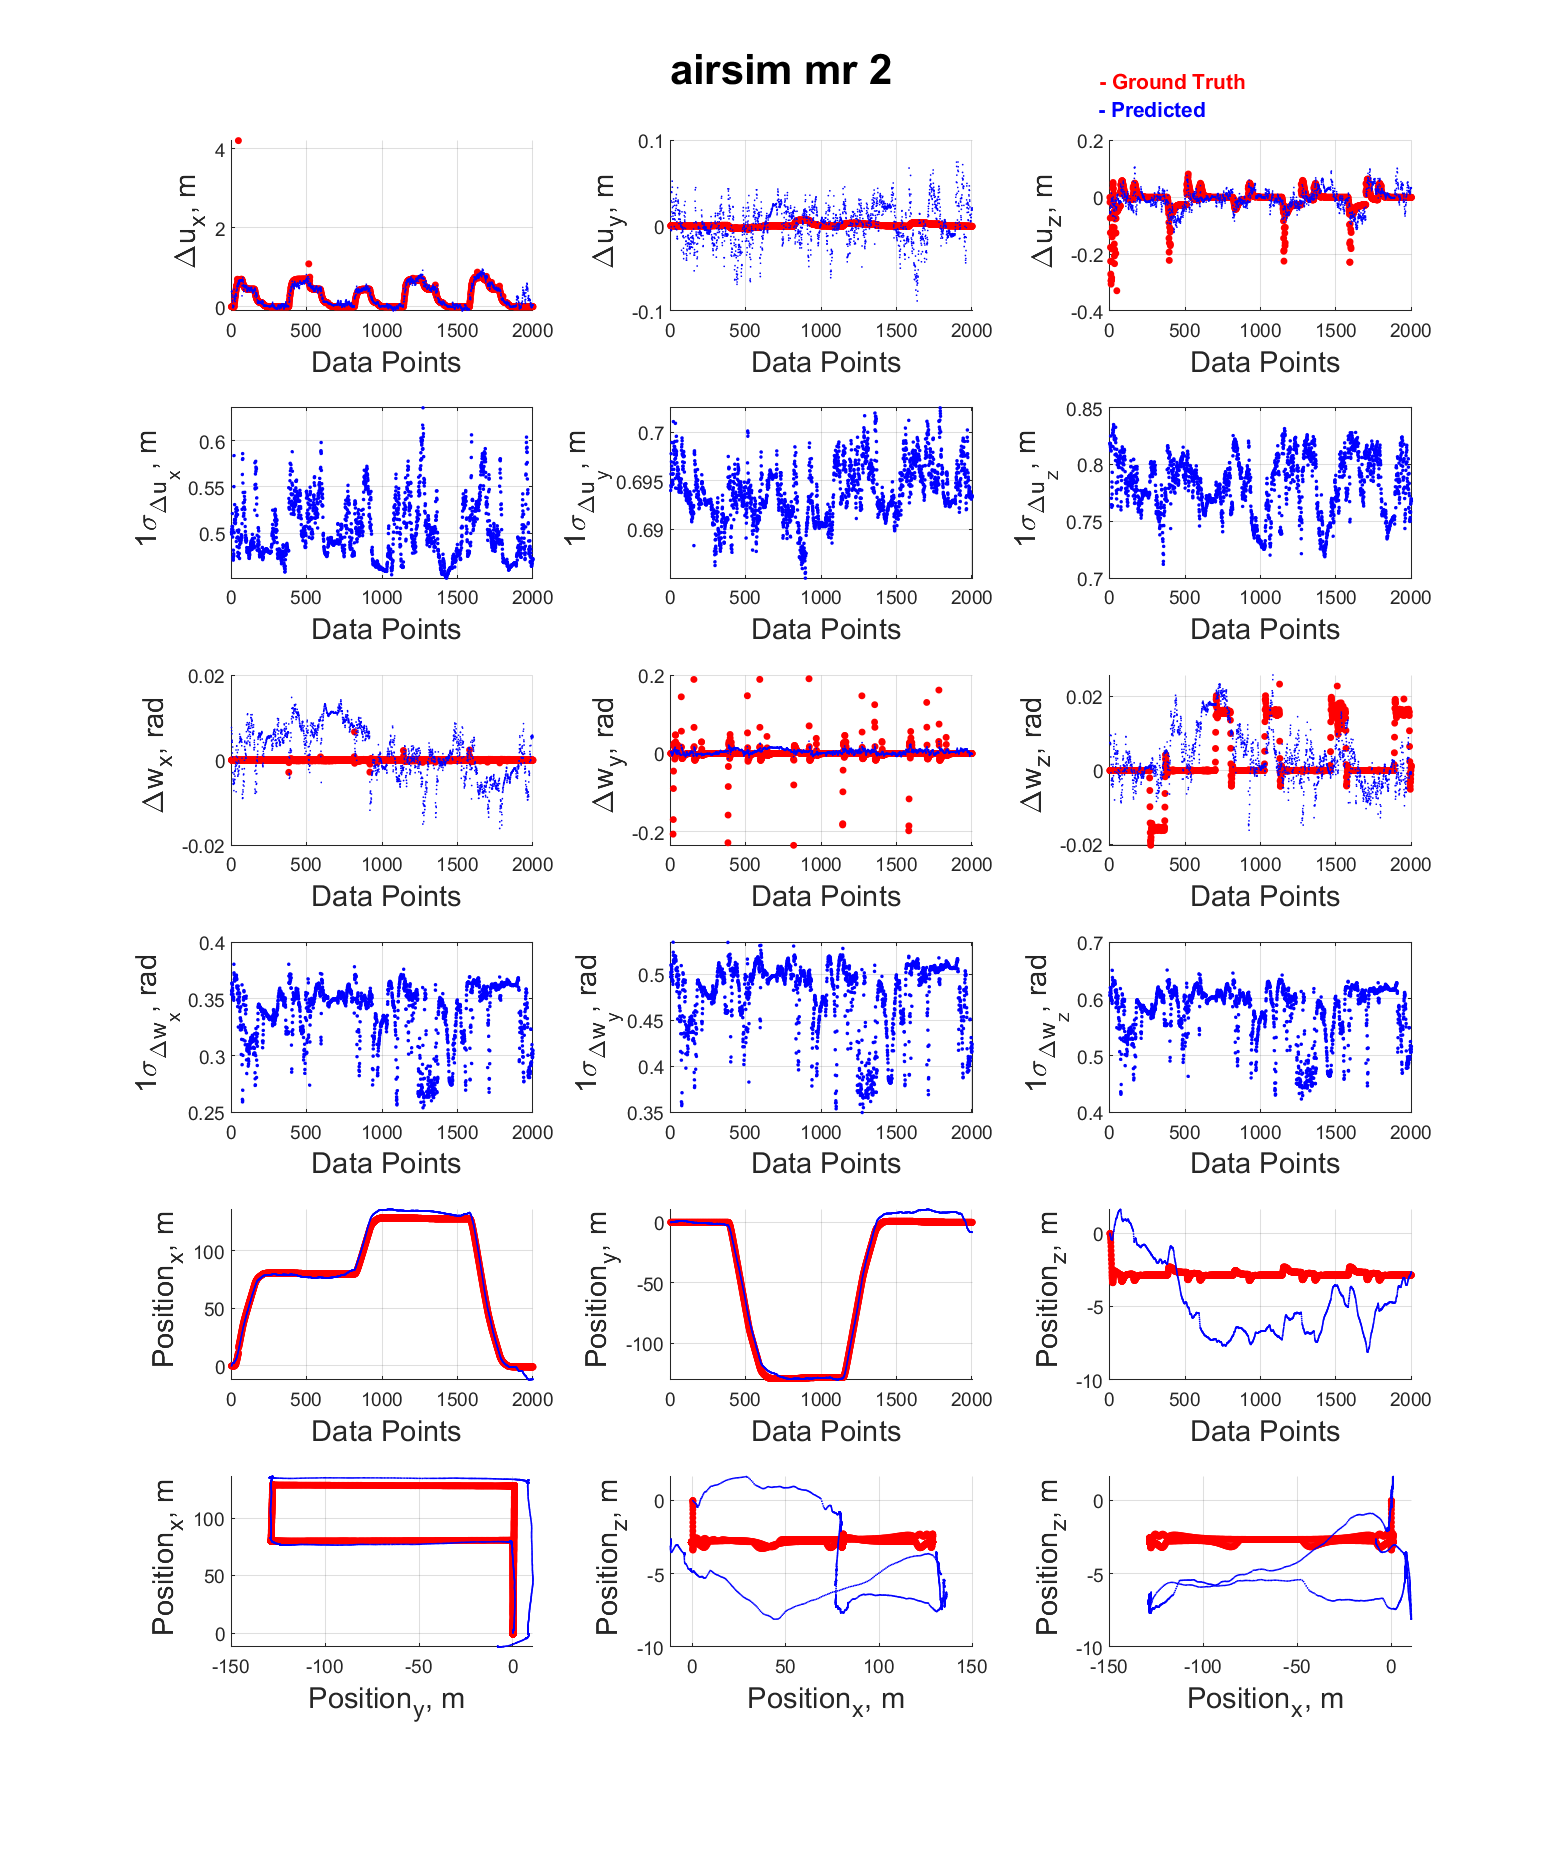
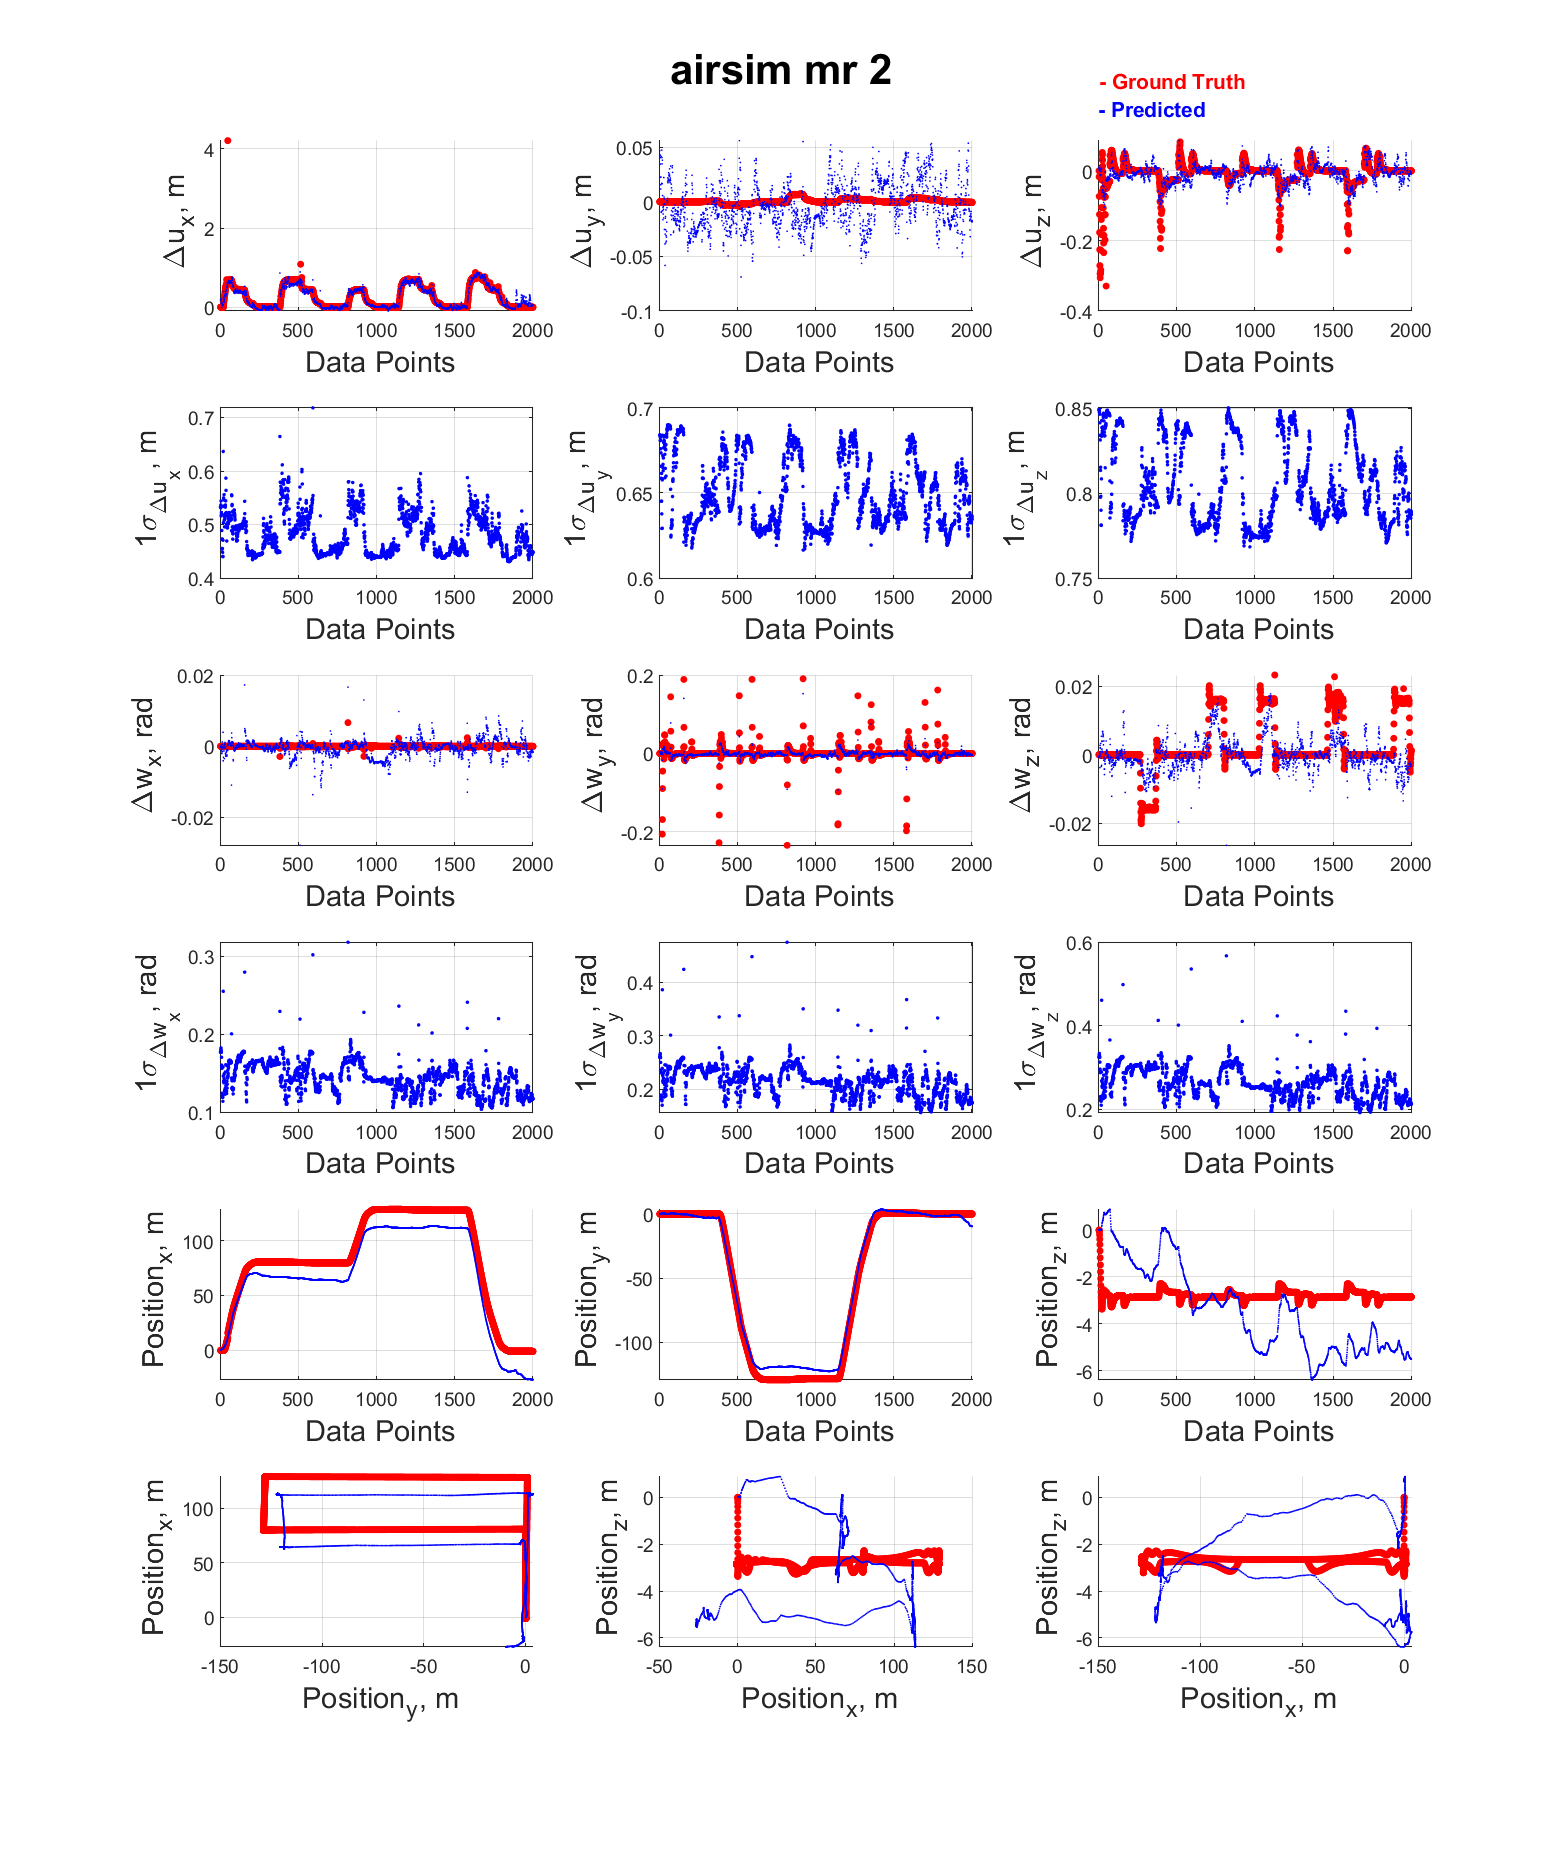
asdf

diff --git a/Results/show_cnn.m b/Results/show_cnn.m
@@ -1,7 +1,7 @@
 clc, clear, close all
-dsName = 'euroc';
-subType = '';
-seq = 4;
+dsName = 'airsim';
+subType = 'mr';
+seq = 2;
 
 %% Get Ground Truth Info.
 gtPath = getGTPath(dsName,subType, seq);
